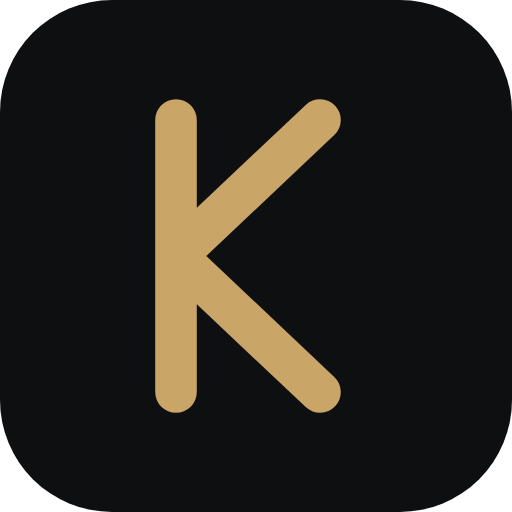
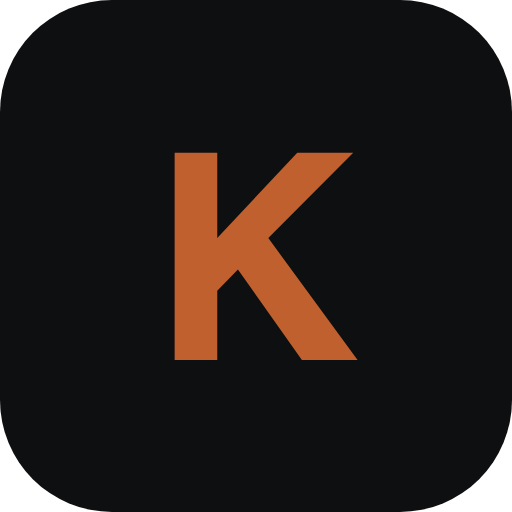
Rebrand the landing page: new accent, real K mark, serif/sans pairing, grid lines
- Accent color changed from brass/gold to a deep terracotta (#c1602f),
  applied consistently across the page and the orb shader's palette.
- Replaced the abstract two-diagonal-stroke glyph with an actual bold
  sans-serif "K" letterform - the favicon, apple-touch-icon, PWA manifest
  icons, and OG image were all regenerated to match (same Chromium-render
  pipeline as before, not sips upscaling).
- Added Playfair Display italic for the headline's emphasis word, paired
  with Inter for everything else - a real serif/sans combination instead
  of an all-sans page.
- Added a fixed, subtle print-grid backdrop (thin repeating lines every
  120px) behind the whole page - a structural visual motif, not a one-off
  decoration.
- Rewrote the "Not a demo. Not mocked panels... not a screenshot
  pretending to be a product" line, which read as defensively worded
  and specifically odd given the section itself shows screenshots. Now:
  "Everything below actually works" / "No mocked panels, no placeholder
  buttons. Open Knox and try any of it yourself."

The app's own UI accent (apps/web/src/styles/theme.css, #c9a567) is
intentionally left untouched here - this changes the marketing page's
identity, not the product's.

Verified: zero em dashes, zero horizontal overflow at 320-1440px, no-JS
fallback still shows everything, favicon/OG assets regenerated and
visually confirmed in both themes.

Changed region(s): [[0.2812, 0.1875, 0.6875, 0.8125]]

diff --git a/apps/web/index.html b/apps/web/index.html
@@ -27,18 +27,23 @@
 
     <link rel="preconnect" href="https://fonts.googleapis.com" />
     <link rel="preconnect" href="https://fonts.gstatic.com" crossorigin />
-    <link href="https://fonts.googleapis.com/css2?family=Inter:wght@400;500;600;700&family=JetBrains+Mono:wght@400;500&display=swap" rel="stylesheet" />
+    <link
+      href="https://fonts.googleapis.com/css2?family=Inter:wght@400;500;600;700&family=Playfair+Display:ital,wght@1,600&family=JetBrains+Mono:wght@400;500&display=swap"
+      rel="stylesheet"
+    />
 
     <style>
       :root {
-        --accent: #c9a567;
-        --accent-fg: #14110a;
+        --accent: #c1602f;
+        --accent-fg: #fff6f0;
         --success: #8fb37a;
         --radius: 8px;
         --radius-lg: 14px;
         --sans: "Inter", -apple-system, BlinkMacSystemFont, "Segoe UI", system-ui, sans-serif;
+        --serif: "Playfair Display", "Iowan Old Style", Georgia, serif;
         --mono: "JetBrains Mono", ui-monospace, "SF Mono", Menlo, Consolas, monospace;
         --max-w: 1080px;
+        --grid-line: rgba(127, 127, 127, 0.14);
       }
       /* Same neutral scale as the app itself (src/styles/theme.css) - the landing page and
          the product should look like the same thing, not two different color systems. */
@@ -100,6 +105,24 @@
         line-height: 1.55;
         -webkit-font-smoothing: antialiased;
         overflow-x: hidden;
+        position: relative;
+      }
+      /* A fixed print-grid backdrop, not decoration bolted on top - this is the one
+         structural visual motif the whole page is built around. */
+      body::before {
+        content: "";
+        position: fixed;
+        inset: 0;
+        z-index: 0;
+        pointer-events: none;
+        background-image: repeating-linear-gradient(90deg, var(--grid-line) 0px, var(--grid-line) 1px, transparent 1px, transparent 120px),
+          repeating-linear-gradient(0deg, var(--grid-line) 0px, var(--grid-line) 1px, transparent 1px, transparent 120px);
+      }
+      nav,
+      main,
+      footer {
+        position: relative;
+        z-index: 1;
       }
       img {
         max-width: 100%;
@@ -277,7 +300,11 @@
         font-weight: 650;
       }
       .hero h1 span {
+        font-family: var(--serif);
+        font-style: italic;
+        font-weight: 600;
         color: var(--accent);
+        letter-spacing: -0.01em;
       }
       .hero-sub {
         font-size: 16.5px;
@@ -510,7 +537,7 @@
       <a class="brand" href="#top">
         <svg viewBox="0 0 32 32" aria-hidden="true">
           <rect width="32" height="32" rx="7" fill="#0e0f11" />
-          <path d="M11 7.5v17M11 16l9-8.5M11 16l9 8.5" stroke="#c9a567" stroke-width="2.6" stroke-linecap="round" stroke-linejoin="round" fill="none" />
+          <text x="16" y="22.5" font-family="Helvetica, Arial, sans-serif" font-weight="700" font-size="18" fill="#c1602f" text-anchor="middle">K</text>
         </svg>
         Knox
       </a>
@@ -545,8 +572,8 @@
       <section class="section" id="features">
         <div class="section-head fade">
           <span class="eyebrow">what's real</span>
-          <h2>Not a demo. Not mocked panels.</h2>
-          <p>Every panel below is wired to real behavior, not a screenshot pretending to be a product.</p>
+          <h2>Everything below actually works</h2>
+          <p>No mocked panels, no placeholder buttons. Open Knox and try any of it yourself.</p>
         </div>
         <div class="grid fade">
           <div class="card card--half">
@@ -618,7 +645,7 @@
       <a class="brand" href="#top">
         <svg viewBox="0 0 32 32" aria-hidden="true" width="18" height="18">
           <rect width="32" height="32" rx="7" fill="#0e0f11" />
-          <path d="M11 7.5v17M11 16l9-8.5M11 16l9 8.5" stroke="#c9a567" stroke-width="2.6" stroke-linecap="round" stroke-linejoin="round" fill="none" />
+          <text x="16" y="22.5" font-family="Helvetica, Arial, sans-serif" font-weight="700" font-size="18" fill="#c1602f" text-anchor="middle">K</text>
         </svg>
         Knox
       </a>

diff --git a/apps/web/orb.js b/apps/web/orb.js
@@ -98,8 +98,8 @@ function start(gl) {
   gl.blendFunc(gl.SRC_ALPHA, gl.ONE_MINUS_SRC_ALPHA);
 
   const PALETTE = {
-    dark: { a: [0.7882, 0.6471, 0.4039], b: [0.11, 0.078, 0.039], alpha: 0.95 },
-    light: { a: [0.72, 0.5, 0.22], b: [0.87, 0.75, 0.5], alpha: 0.85 },
+    dark: { a: [0.7569, 0.3765, 0.1843], b: [0.102, 0.059, 0.039], alpha: 0.95 },
+    light: { a: [0.68, 0.32, 0.14], b: [0.941, 0.867, 0.816], alpha: 0.8 },
   };
 
   function currentTheme() {
